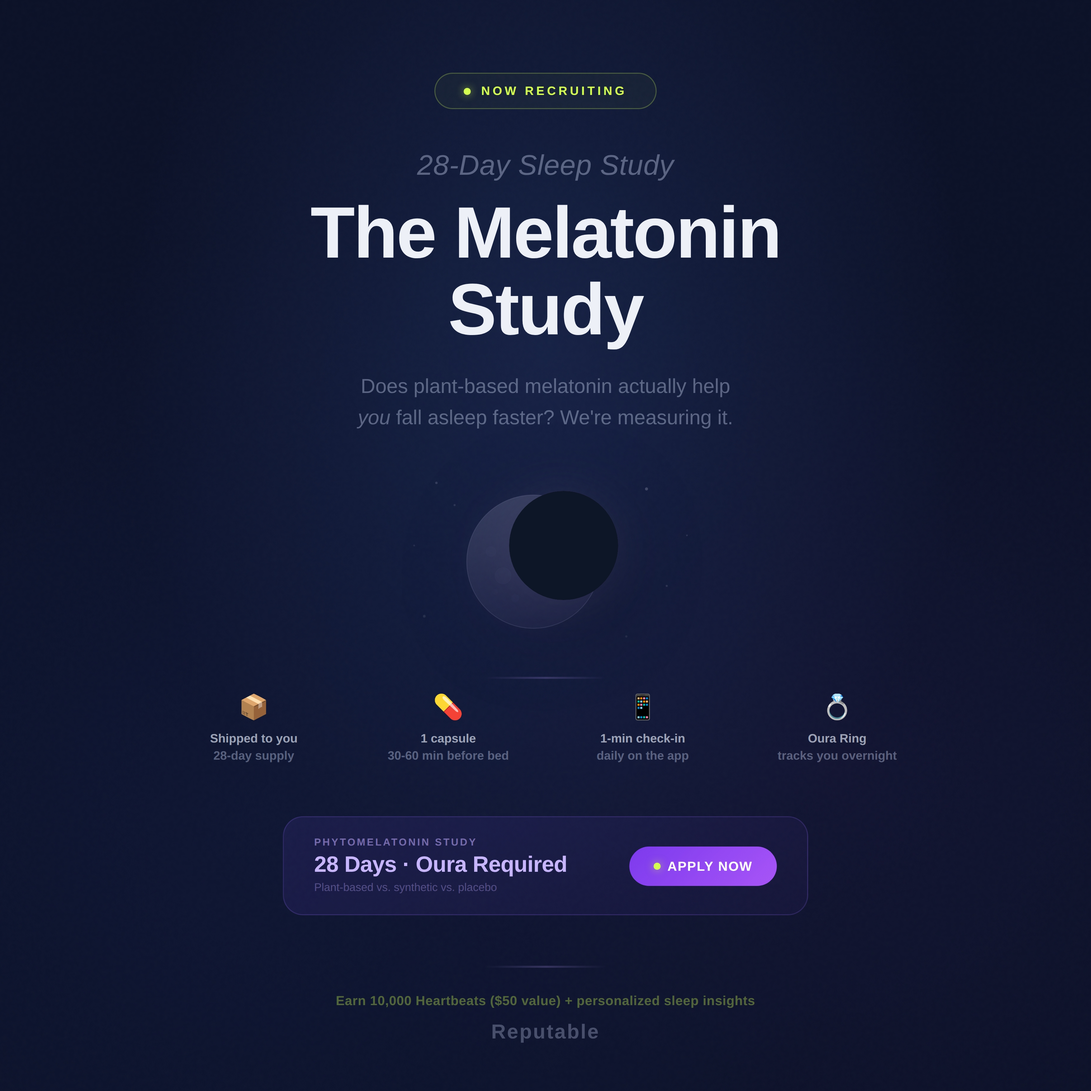
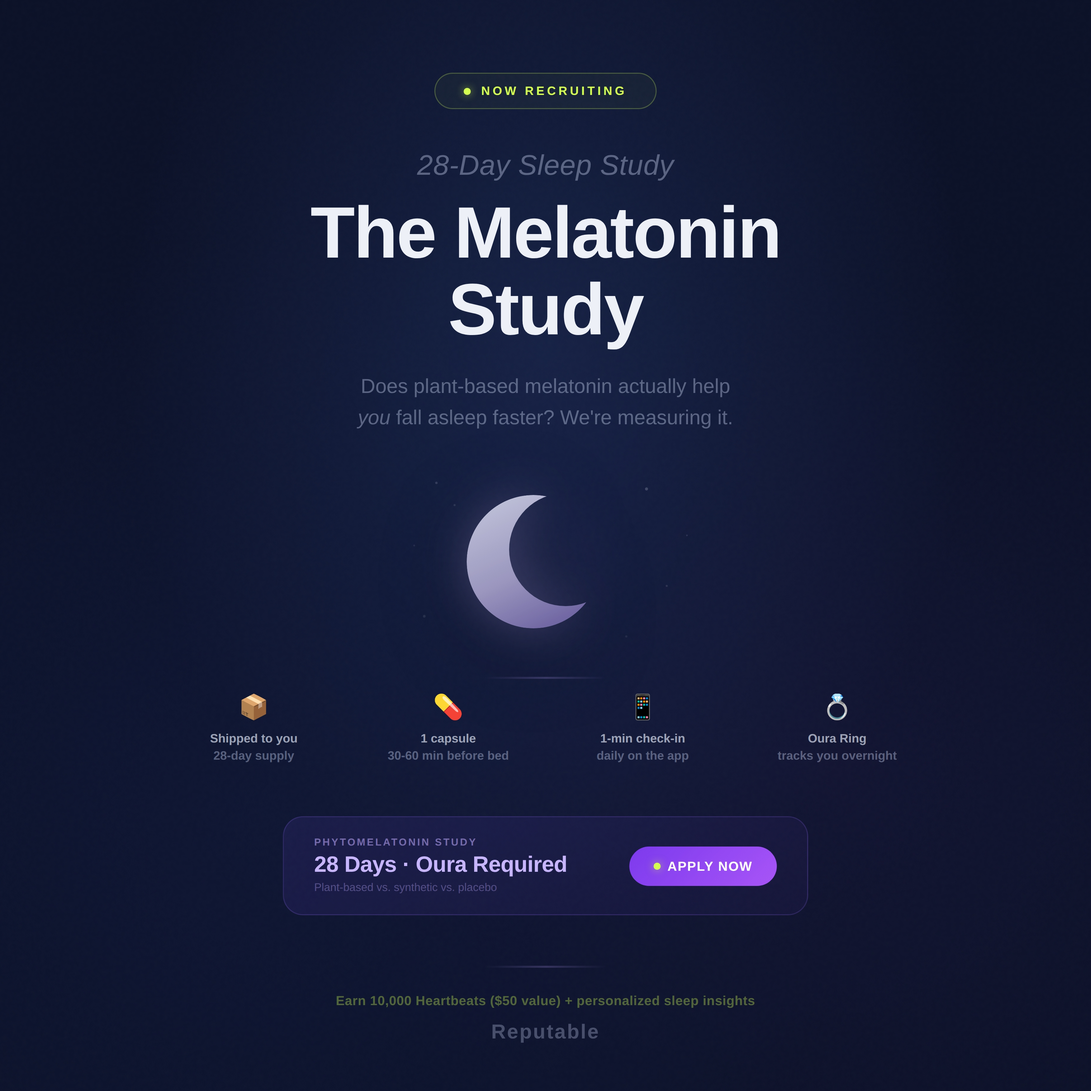
Use SVG mask for clean crescent moon with no overlay
Replace the two-circle overlay approach with a proper SVG mask
so the crescent is a true cutout shape — no dark circle visible.
Boosted gradient to solid silver-to-purple for better visibility.

https://claude.ai/code/session_01TfrrBTyPYsf3Z7Zsrx7aQ5

Changed region(s): [[0.4052, 0.4364, 0.5611, 0.5923]]

diff --git a/melatonin-study-post.html b/melatonin-study-post.html
@@ -279,19 +279,23 @@
   <div class="illus-wrap">
     <svg width="320" height="240" viewBox="0 0 320 240" fill="none" xmlns="http://www.w3.org/2000/svg">
       <defs>
-        <linearGradient id="moonGrad" x1="120" y1="30" x2="180" y2="200" gradientUnits="userSpaceOnUse">
-          <stop offset="0%" stop-color="rgba(210,215,240,0.18)"/>
-          <stop offset="50%" stop-color="rgba(180,175,220,0.10)"/>
-          <stop offset="100%" stop-color="rgba(140,120,200,0.04)"/>
+        <linearGradient id="moonGrad" x1="90" y1="40" x2="160" y2="190" gradientUnits="userSpaceOnUse">
+          <stop offset="0%" stop-color="#c8cbdf"/>
+          <stop offset="60%" stop-color="#9a96be"/>
+          <stop offset="100%" stop-color="#6b61a0"/>
         </linearGradient>
         <radialGradient id="outerGlow" cx="50%" cy="50%" r="50%">
           <stop offset="0%" stop-color="rgba(160,150,230,0.06)"/>
           <stop offset="60%" stop-color="rgba(140,120,210,0.02)"/>
           <stop offset="100%" stop-color="transparent"/>
         </radialGradient>
+        <mask id="crescentMask">
+          <circle cx="148" cy="116" r="66" fill="white"/>
+          <circle cx="180" cy="104" r="56" fill="black"/>
+        </mask>
         <filter id="moonGlow" x="-50%" y="-50%" width="200%" height="200%">
           <feGaussianBlur in="SourceAlpha" stdDeviation="22" result="blur"/>
-          <feFlood flood-color="#b8a8e8" flood-opacity="0.10" result="color"/>
+          <feFlood flood-color="#c0b0f0" flood-opacity="0.25" result="color"/>
           <feComposite in="color" in2="blur" operator="in" result="glow"/>
           <feMerge><feMergeNode in="glow"/><feMergeNode in="SourceGraphic"/></feMerge>
         </filter>
@@ -300,18 +304,10 @@
       <!-- Ambient glow -->
       <circle cx="148" cy="120" r="110" fill="url(#outerGlow)"/>
 
-      <!-- Moon crescent -->
+      <!-- Crescent moon (masked, no overlay circle) -->
       <g filter="url(#moonGlow)">
-        <circle cx="148" cy="116" r="66" fill="url(#moonGrad)" stroke="rgba(200,195,240,0.12)" stroke-width="0.8"/>
-        <!-- Shadow circle to carve crescent shape -->
-        <circle cx="178" cy="100" r="54" fill="#0c1228"/>
+        <circle cx="148" cy="116" r="66" fill="url(#moonGrad)" mask="url(#crescentMask)"/>
       </g>
-
-      <!-- Subtle surface craters on the lit side -->
-      <circle cx="118" cy="130" r="8" fill="rgba(140,130,200,0.035)" stroke="rgba(160,150,210,0.04)" stroke-width="0.5"/>
-      <circle cx="106" cy="106" r="5" fill="rgba(140,130,200,0.03)" stroke="rgba(160,150,210,0.035)" stroke-width="0.4"/>
-      <circle cx="130" cy="152" r="4" fill="rgba(140,130,200,0.025)"/>
-      <circle cx="110" cy="146" r="3" fill="rgba(140,130,200,0.02)"/>
 
       <!-- Small stars -->
       <circle cx="260" cy="44" r="1.5" fill="rgba(220,225,240,0.22)"/>
